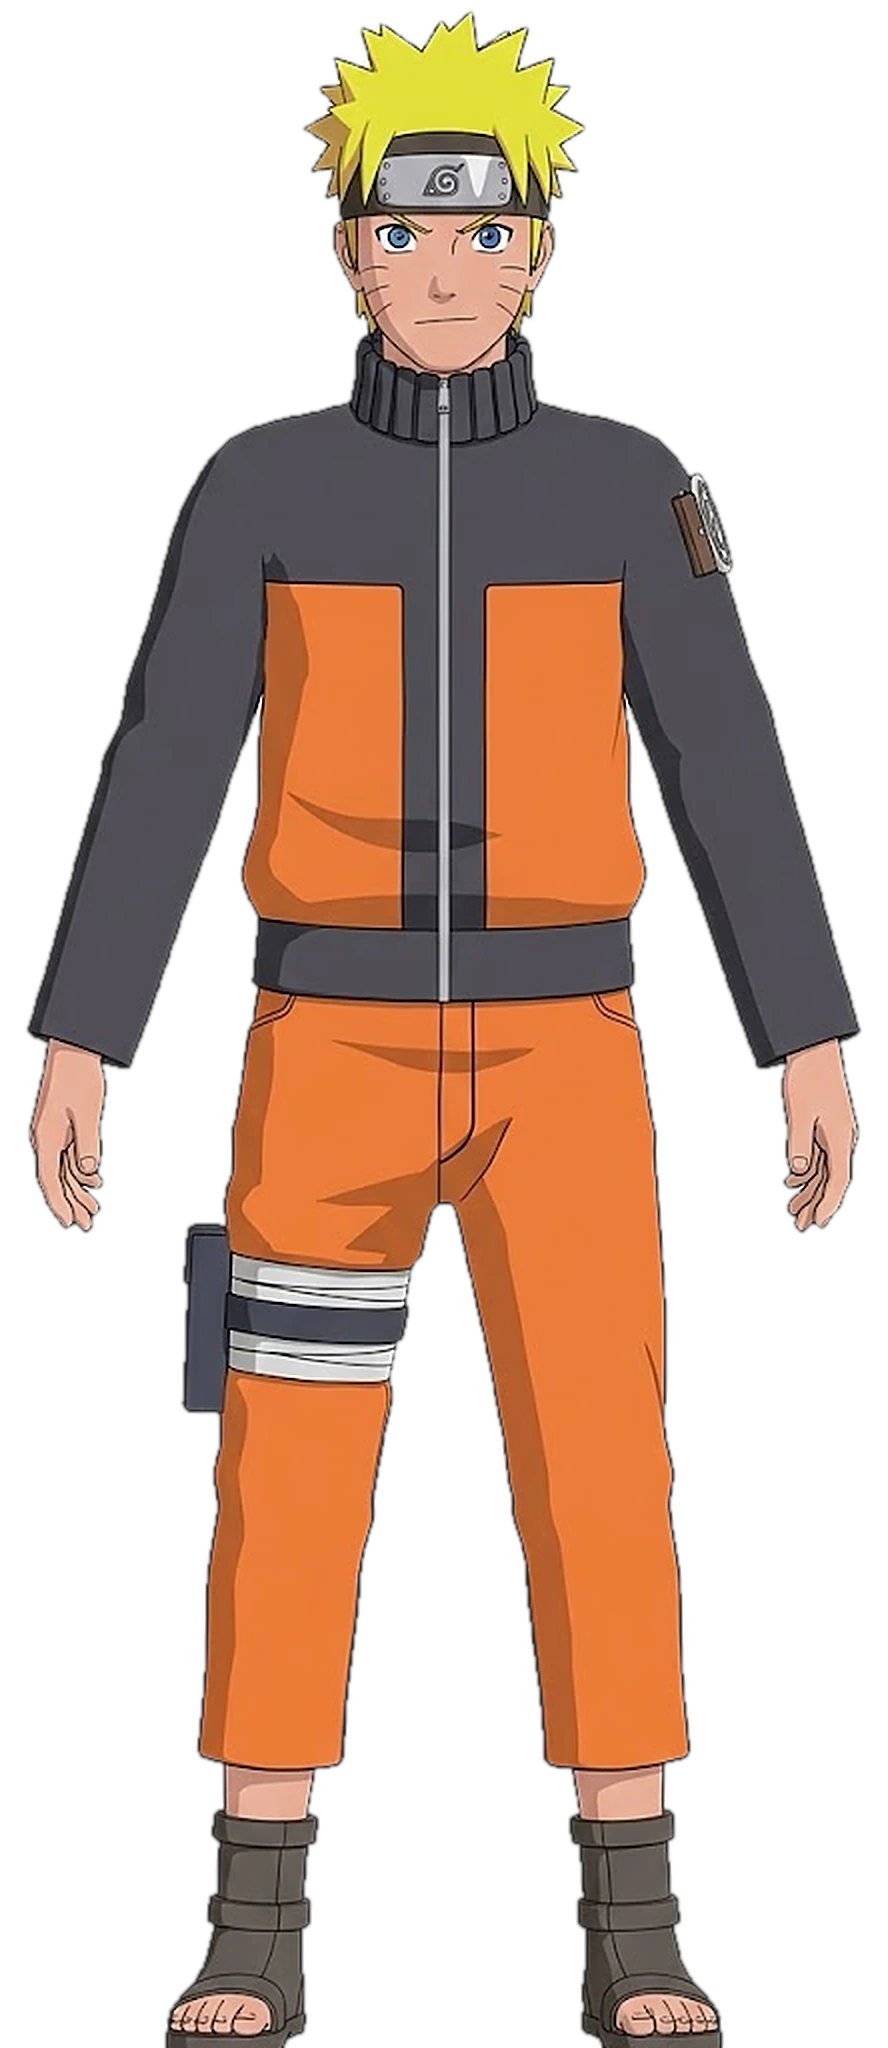
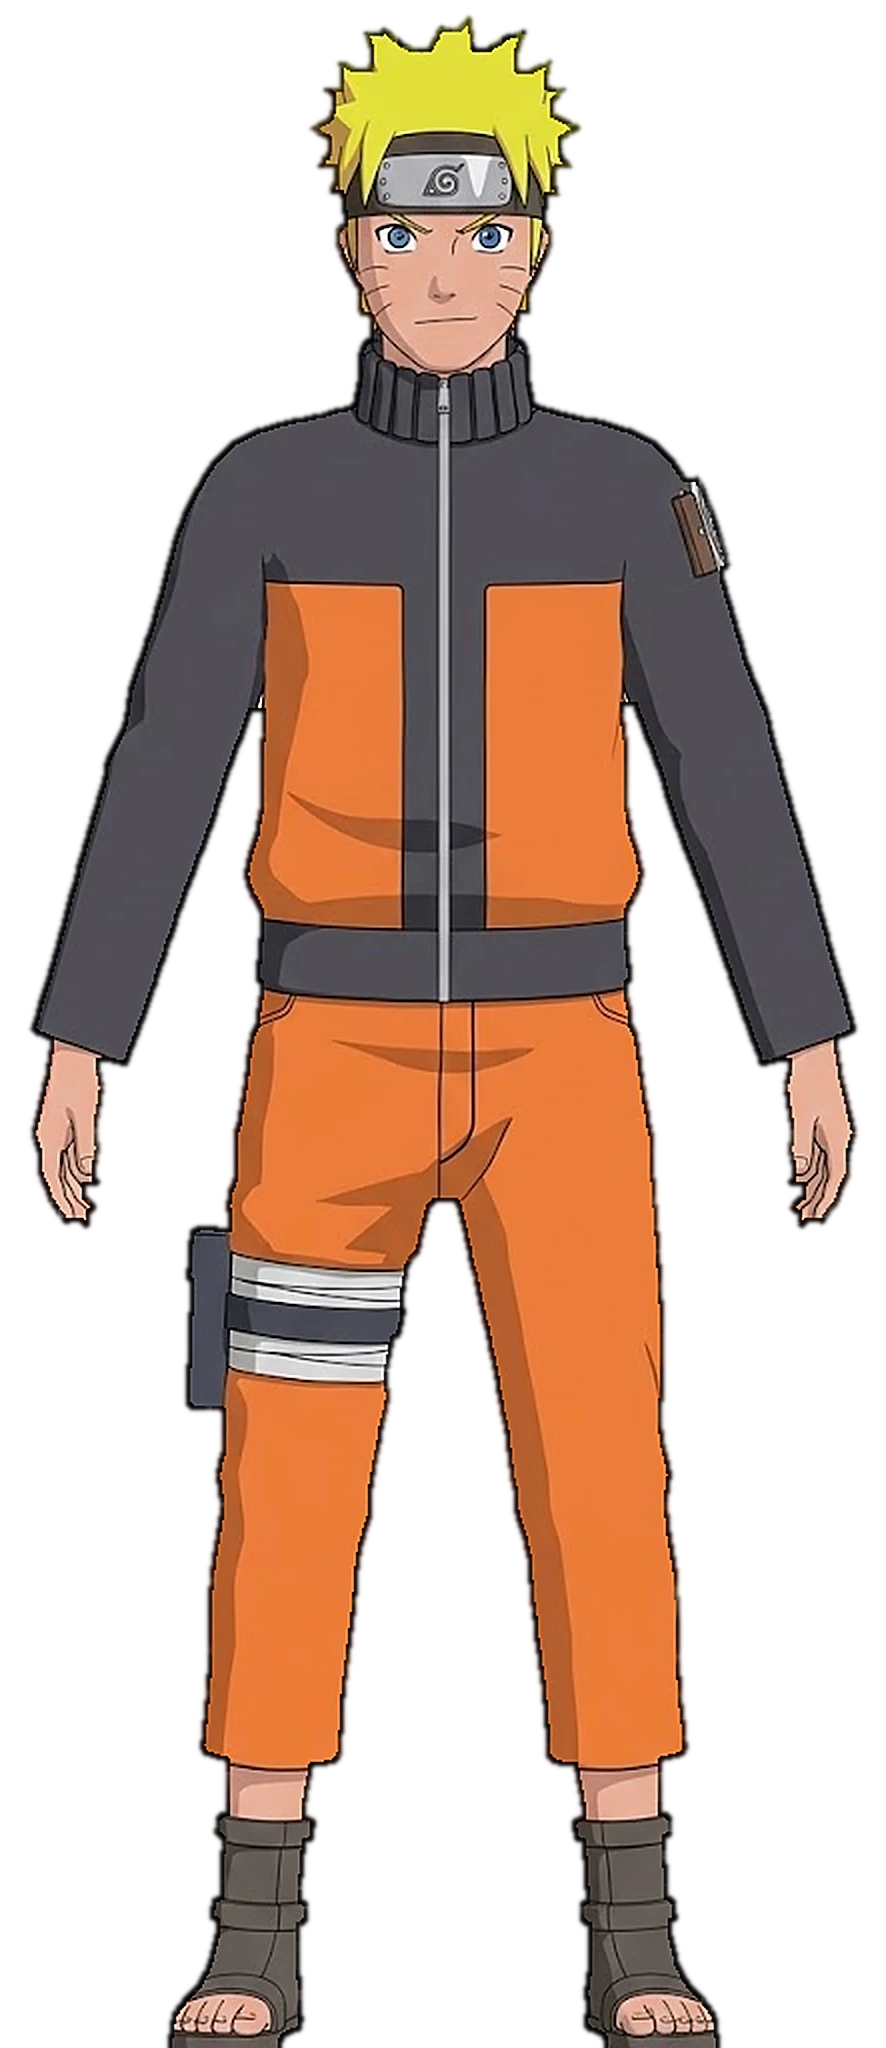
Personagem animado e contorno corrigido
- Corrige orelhas/contorno: volume reduzido e personagem sempre de frente; bordas sem franja clara
- Braços balançam, cabeça inclina e acompanha o mouse, olhos piscam, peso muda de perna e peito respira
- Pose de poder (braços abrem, aura explode) quando um envio dá certo

Claude-Session: https://claude.ai/code/session_01QtLrSjrF9jsPHwsWDqhiUF

diff --git a/public/js/scene.js b/public/js/scene.js
@@ -8,8 +8,8 @@ import * as THREE from 'three';
 export const HERO_CHAR = 'img/hero-char.webp';
 export const HERO_DEPTH = 'img/hero-char-depth.png';
 export const HERO_GLOW = 'img/hero-char-glow.png';
-const CHAR_ASPECT = 444 / 1024; // recorte do personagem
-const GLOW_PAD = { w: 644 / 444, h: 1224 / 1024 }; // aura tem margem em volta da silhueta
+const CHAR_ASPECT = 443 / 1024; // recorte do personagem
+const GLOW_PAD = { w: 643 / 443, h: 1224 / 1024 }; // aura tem margem em volta da silhueta
 
 function mulberry32(a) {
   return () => {
@@ -31,38 +31,76 @@ const NOISE = /* glsl */`
 `;
 
 // ---- personagem: volume, respiração, luz de fogo e contorno laranja
-const charMaterial = (map, depth) => new THREE.ShaderMaterial({
-  uniforms: { uMap: { value: map }, uDepth: { value: depth }, uTime: { value: 0 }, uFire: { value: 1 }, uIntro: { value: 0 } },
+const charMaterial = (map, depth, size) => new THREE.ShaderMaterial({
+  uniforms: {
+    uMap: { value: map }, uDepth: { value: depth }, uTime: { value: 0 }, uFire: { value: 1 }, uIntro: { value: 0 },
+    uSize: { value: size }, uPower: { value: 0 }, uBlink: { value: 0 }, uLook: { value: new THREE.Vector2() },
+  },
   vertexShader: /* glsl */`
-    uniform sampler2D uDepth; uniform float uTime;
-    varying vec2 vUv; varying float vD;
+    uniform sampler2D uDepth; uniform float uTime; uniform vec2 uSize; uniform float uPower; uniform vec2 uLook;
+    varying vec2 vUv;
+    // gira o ponto p em volta do pivô (em uv) pelo ângulo a, com peso w
+    vec2 rot(vec2 p, vec2 pivotUv, float a, float w){
+      vec2 pv = (pivotUv - 0.5) * uSize;
+      vec2 d = p - pv;
+      float c = cos(a * w), s = sin(a * w);
+      return pv + vec2(c * d.x - s * d.y, s * d.x + c * d.y);
+    }
     void main(){
       vUv = uv;
-      float d = texture2D(uDepth, uv).r;
-      vD = d;
       vec3 p = position;
-      float chest = smoothstep(0.42, 0.62, uv.y) * (1.0 - smoothstep(0.8, 0.9, uv.y));
-      float breath = sin(uTime * 2.1);
-      p.x *= 1.0 + breath * 0.008 * chest;              // peito expande
-      p.y += (breath * 0.012) * smoothstep(0.4, 1.0, uv.y); // ombros e cabeça sobem
-      p.z += d * 0.34;
+      float t = uTime;
+      float breath = sin(t * 2.1);
+      // braços (soltos do tronco a partir da axila): balanço + abrir no "poder"
+      float armL = (1.0 - smoothstep(0.275, 0.292, uv.x)) * smoothstep(0.0, 0.12, 0.76 - uv.y) * step(0.36, uv.y);
+      float armR = smoothstep(0.708, 0.725, uv.x) * smoothstep(0.0, 0.12, 0.76 - uv.y) * step(0.36, uv.y);
+      float swing = sin(t * 1.3) * 0.045 + breath * 0.012;
+      p.xy = rot(p.xy, vec2(0.265, 0.765), -swing - 0.22 * uPower, armL);
+      p.xy = rot(p.xy, vec2(0.735, 0.765), -swing * 0.8 + 0.22 * uPower, armR);
+      // tronco: respira e o peso passa de uma perna para a outra (pés ficam no chão)
+      float chest = smoothstep(0.42, 0.62, uv.y) * (1.0 - smoothstep(0.78, 0.84, uv.y));
+      p.x *= 1.0 + breath * 0.01 * chest;
+      float body = smoothstep(0.05, 0.55, uv.y);
+      p.x += sin(t * 0.65) * 0.035 * body;
+      p.y += breath * 0.012 * smoothstep(0.4, 0.85, uv.y);
+      // cabeça: inclina, acena e olha na direção do mouse
+      float head = smoothstep(0.785, 0.815, uv.y);
+      float tilt = sin(t * 0.8) * 0.035 + uLook.x * 0.05;
+      p.xy = rot(p.xy, vec2(0.5, 0.8), tilt, head);
+      p.x += uLook.x * 0.025 * head;
+      p.y += (sin(t * 1.6) * 0.008 - uLook.y * 0.012 + uPower * 0.03) * head;
+      // volume bem leve (evita esconder as orelhas quando a câmera gira)
+      p.z += texture2D(uDepth, uv).r * 0.06;
       gl_Position = projectionMatrix * modelViewMatrix * vec4(p, 1.0);
     }`,
   fragmentShader: /* glsl */`
-    uniform sampler2D uMap; uniform sampler2D uDepth; uniform float uTime; uniform float uFire; uniform float uIntro;
-    varying vec2 vUv; varying float vD;
+    uniform sampler2D uMap; uniform sampler2D uDepth; uniform float uTime; uniform float uFire; uniform float uIntro; uniform float uBlink;
+    varying vec2 vUv;
     ${NOISE}
+    // piscar: fecha o olho puxando a pele de baixo e desenha os cílios
+    vec4 eye(vec2 uv, vec2 c, vec4 col){
+      vec2 q = (uv - c) / vec2(0.034, 0.011);
+      float inside = step(length(q), 1.0) * uBlink;
+      if (inside > 0.0) {
+        col = texture2D(uMap, vec2(uv.x, c.y - 0.016));
+        float lash = 1.0 - smoothstep(0.0, 0.18, abs(q.y + 0.25 * q.x * q.x - 0.15));
+        col.rgb = mix(col.rgb, vec3(0.12, 0.08, 0.07), lash * step(abs(q.x), 0.95));
+      }
+      return col;
+    }
     void main(){
       vec4 tex = texture2D(uMap, vUv);
+      tex = eye(vUv, vec2(0.449, 0.884), tex);
+      tex = eye(vUv, vec2(0.553, 0.884), tex);
       if (tex.a < 0.03) discard;
       vec3 col = tex.rgb;
-      // ambientação: sombra fria de cima, luz de fogo quente vindo de baixo e dos lados
-      col *= mix(0.82, 1.0, smoothstep(0.0, 0.6, vUv.y));
+      // ambientação: sombra fria de cima, luz de fogo quente de baixo e contorno laranja
+      col *= mix(0.84, 1.0, smoothstep(0.0, 0.6, vUv.y));
       float flick = 0.75 + 0.25 * fbm(vec2(uTime * 2.3, vUv.y * 3.0));
-      col += vec3(1.0, 0.42, 0.08) * (1.0 - vUv.y) * 0.1 * uFire * flick;
-      float dpx = texture2D(uDepth, vUv).r; // por pixel (contorno liso)
-      float rim = (1.0 - smoothstep(0.12, 0.4, dpx)) * smoothstep(0.3, 0.9, tex.a);
-      col += vec3(1.0, 0.5, 0.12) * rim * 0.75 * uFire * flick;
+      col += vec3(1.0, 0.42, 0.08) * (1.0 - vUv.y) * 0.09 * uFire * flick;
+      float dpx = texture2D(uDepth, vUv).r;
+      float rim = (1.0 - smoothstep(0.12, 0.4, dpx)) * smoothstep(0.4, 0.95, tex.a);
+      col += vec3(1.0, 0.5, 0.12) * rim * 0.4 * uFire * flick;
       // entrada: materializa de baixo para cima com uma linha de chakra
       float reveal = uIntro * 1.2 - 0.1;
       if (vUv.y > reveal + 0.02) discard;
@@ -188,7 +226,7 @@ export function createScene(canvas, { mode = 'landing', onReady, image = HERO_CH
   const hero = new THREE.Group();
   hero.position.y = FLOOR + CH / 2 - 0.02;
   rig.add(hero);
-  const charMat = charMaterial(mapTex, depthTex);
+  const charMat = charMaterial(mapTex, depthTex, new THREE.Vector2(CW, CH));
   const character = new THREE.Mesh(new THREE.PlaneGeometry(CW, CH, 120, 260), charMat);
   character.renderOrder = 1;
   const auraMat = auraMaterial(glowTex);
@@ -300,7 +338,7 @@ export function createScene(canvas, { mode = 'landing', onReady, image = HERO_CH
   const pose = { x: 0, y: 0, z: 0, rotY: 0, rotX: 0, scale: 1, camY: 0.2 };
   const target = { ...pose };
   const mouse = new THREE.Vector2(), mouseS = new THREE.Vector2();
-  let fire = 1, fireTarget = 1, boost = 3, wiggle = 0;
+  let fire = 1, fireTarget = 1, boost = 3, wiggle = 0, power = 0, powerTarget = 0, nextBlink = 2.5, blinkT = -1;
 
   addEventListener('pointermove', (e) => mouse.set((e.clientX / innerWidth) * 2 - 1, (e.clientY / innerHeight) * 2 - 1), { passive: true });
   addEventListener('deviceorientation', (e) => {
@@ -341,13 +379,19 @@ export function createScene(canvas, { mode = 'landing', onReady, image = HERO_CH
     rig.position.set(pose.x, pose.y, pose.z);
     rig.rotation.set(pose.rotX * 0.5 + Math.sin(t * 0.27) * 0.04 + mouseS.y * 0.1, tiltY, 0);
     rig.scale.setScalar(pose.scale * (0.92 + 0.08 * intro));
-    hero.rotation.y = -tiltY * 0.35; // personagem acompanha a câmera (não fica de lado demais)
+    hero.rotation.y = -tiltY * 0.8; // personagem sempre quase de frente para a câmera
     hero.rotation.z = Math.sin(t * 0.9) * 0.006;
     camera.position.set(mouseS.x * 0.3 + Math.sin(t * 0.21) * 0.25, pose.camY - mouseS.y * 0.15, baseZ + Math.sin(t * 0.18) * 0.3 + (1 - intro) * 1.4);
     camera.lookAt(pose.x * 0.35, pose.y * 0.5 + 0.05, 0);
 
     const f = fire * (0.4 + 0.6 * intro);
+    power += (powerTarget - power) * (1 - Math.pow(0.02, dt));
+    if (t > nextBlink) { blinkT = 0; nextBlink = t + 2.5 + Math.random() * 3.5; }
+    let blink = 0;
+    if (blinkT >= 0) { blinkT += dt; blink = blinkT < 0.14 ? 1 : 0; if (blinkT > 0.14) blinkT = -1; }
     charMat.uniforms.uTime.value = t; charMat.uniforms.uFire.value = f; charMat.uniforms.uIntro.value = intro;
+    charMat.uniforms.uPower.value = power; charMat.uniforms.uBlink.value = reduced ? 0 : blink;
+    charMat.uniforms.uLook.value.copy(mouseS);
     auraMat.uniforms.uTime.value = t; auraMat.uniforms.uFire.value = f * intro;
     beam.material.uniforms.uTime.value = t;
     fireLight.intensity = 8 + f * 6 + Math.sin(t * 9) * 1.5;
@@ -380,7 +424,7 @@ export function createScene(canvas, { mode = 'landing', onReady, image = HERO_CH
   return {
     setPose(p) { Object.assign(target, p); },
     setAura(strength) { fireTarget = 0.6 + strength * 0.8; },
-    spin() { fireTarget = 2.4; boost = 5; wiggle = 1; setTimeout(() => (fireTarget = 1), 1000); },
+    spin() { fireTarget = 2.4; boost = 5; wiggle = 1; powerTarget = 1; setTimeout(() => { fireTarget = 1; powerTarget = 0; }, 1300); },
     pulse() { target.scale = pose.scale * 1.04; fireTarget = 1.7; boost = 2.5; setTimeout(() => { target.scale /= 1.04; fireTarget = 1; }, 260); },
   };
 }
